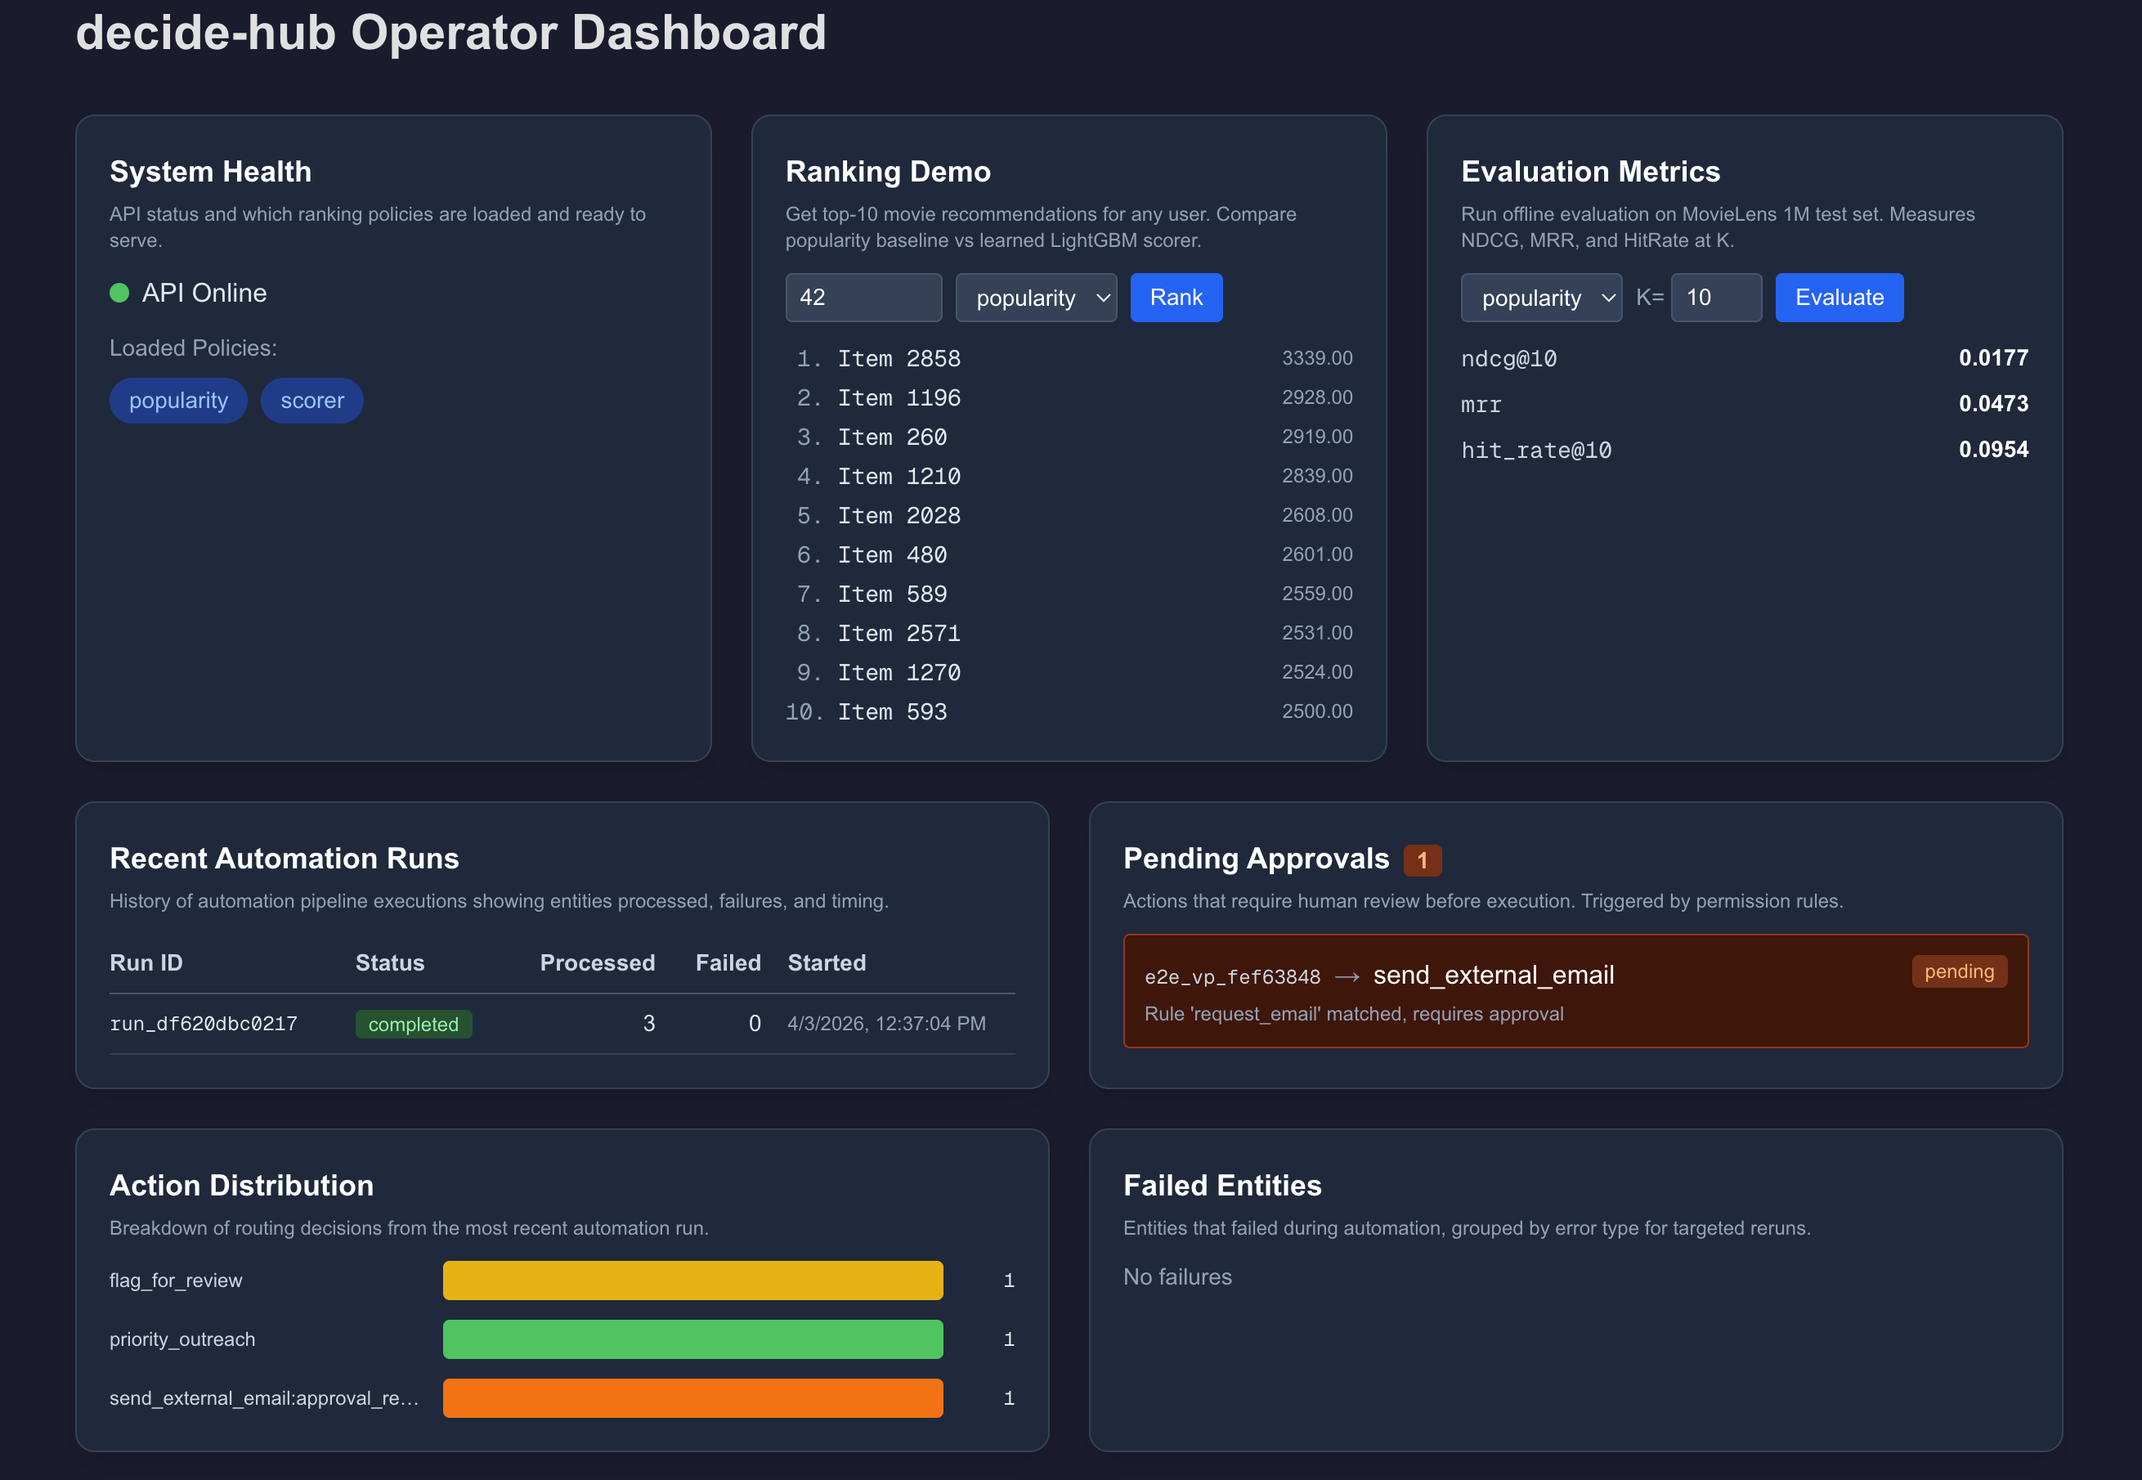
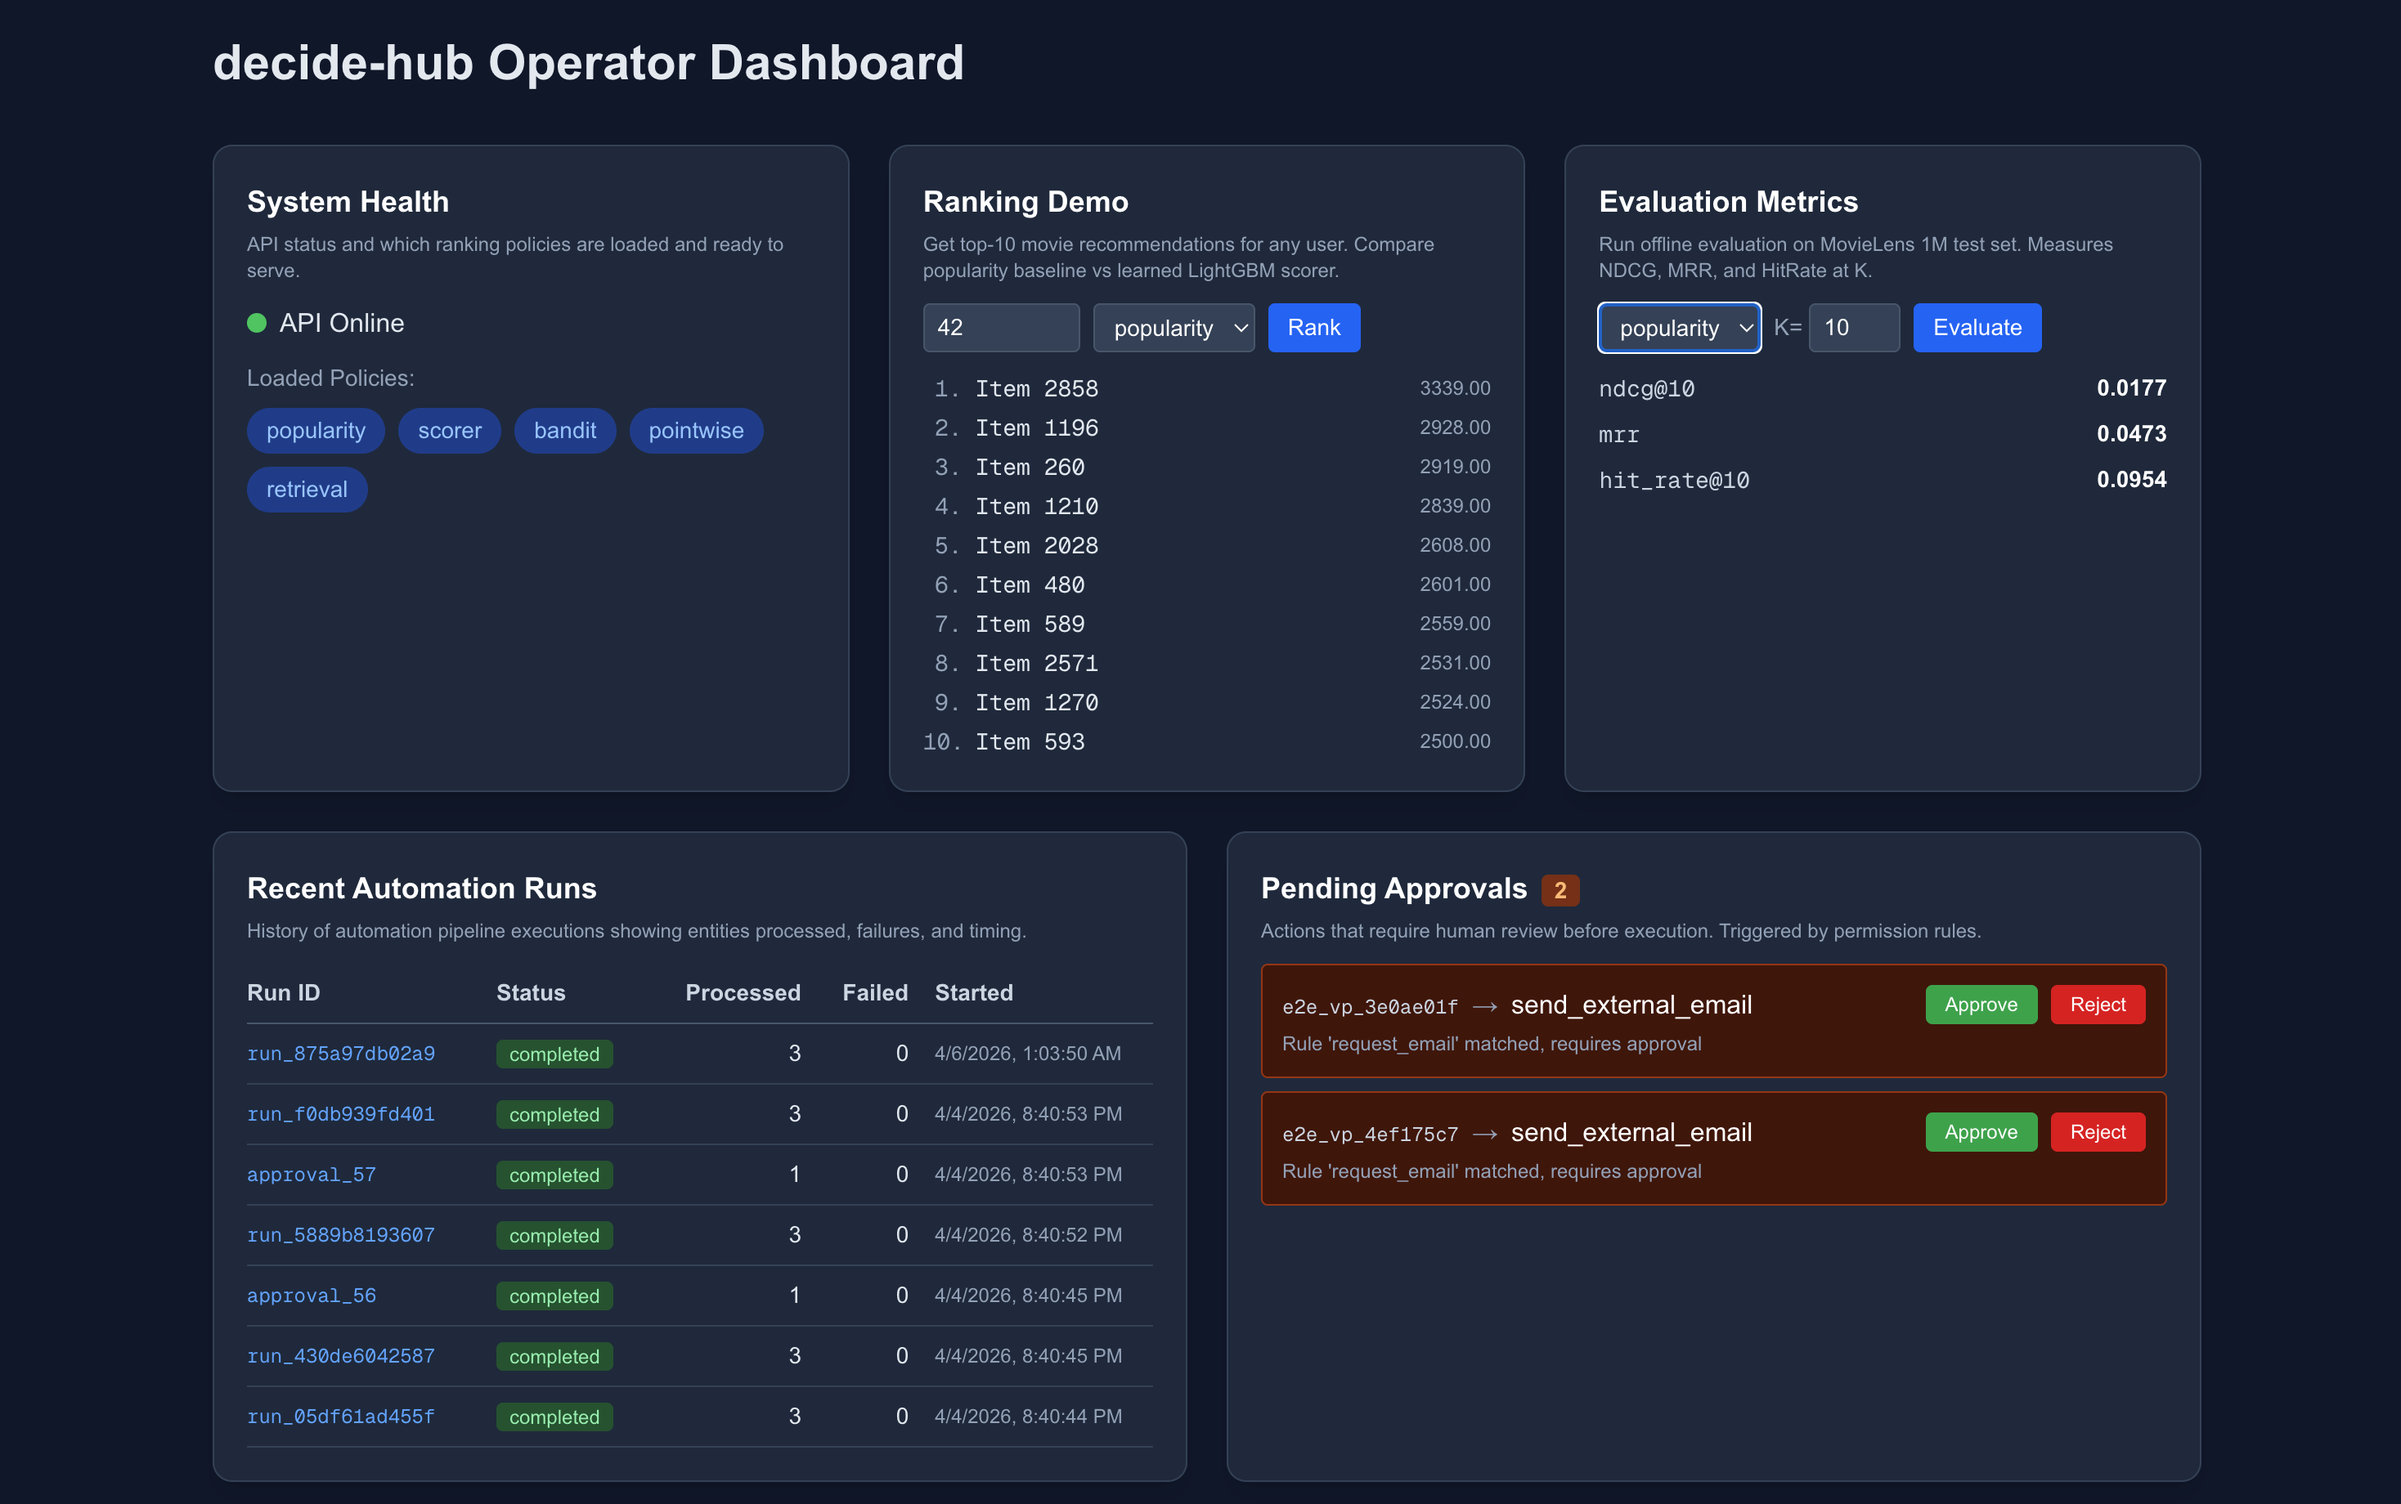
docs: update dashboard screenshots for V2

diff --git a/README.md b/README.md
@@ -6,7 +6,8 @@ A full-stack decision system: Python ML backend ranks items and evaluates polici
 
 **Stack:** Python · FastAPI · Postgres · LightGBM · PyTorch · SHAP · asyncpg · Next.js · React · Tailwind · Playwright · Docker · Grafana · Prometheus · GitHub Actions
 
-![Operator Dashboard](docs/dashboard.png)
+![Operator Dashboard — Overview](docs/dashboard.png)
+![Operator Dashboard — Action Distribution & Anomalies](docs/dashboard-bottom.png)
 
 ## Architecture
 
@@ -201,6 +202,9 @@ Multi-page Next.js + React + Tailwind dashboard at `:3000`:
 - **WebSocket live updates** — RunsTable streams entity_processed events in real time
 - **Role-based UI** — Approve/reject buttons visible only to operators
 - **Anomaly indicator** — Green/red status from `/anomalies` endpoint (3 SD z-score drift detection)
+
+![Approval Queue](docs/approvals.png)
+![Policy Comparison](docs/policies.png)
 
 ## Authentication
 
